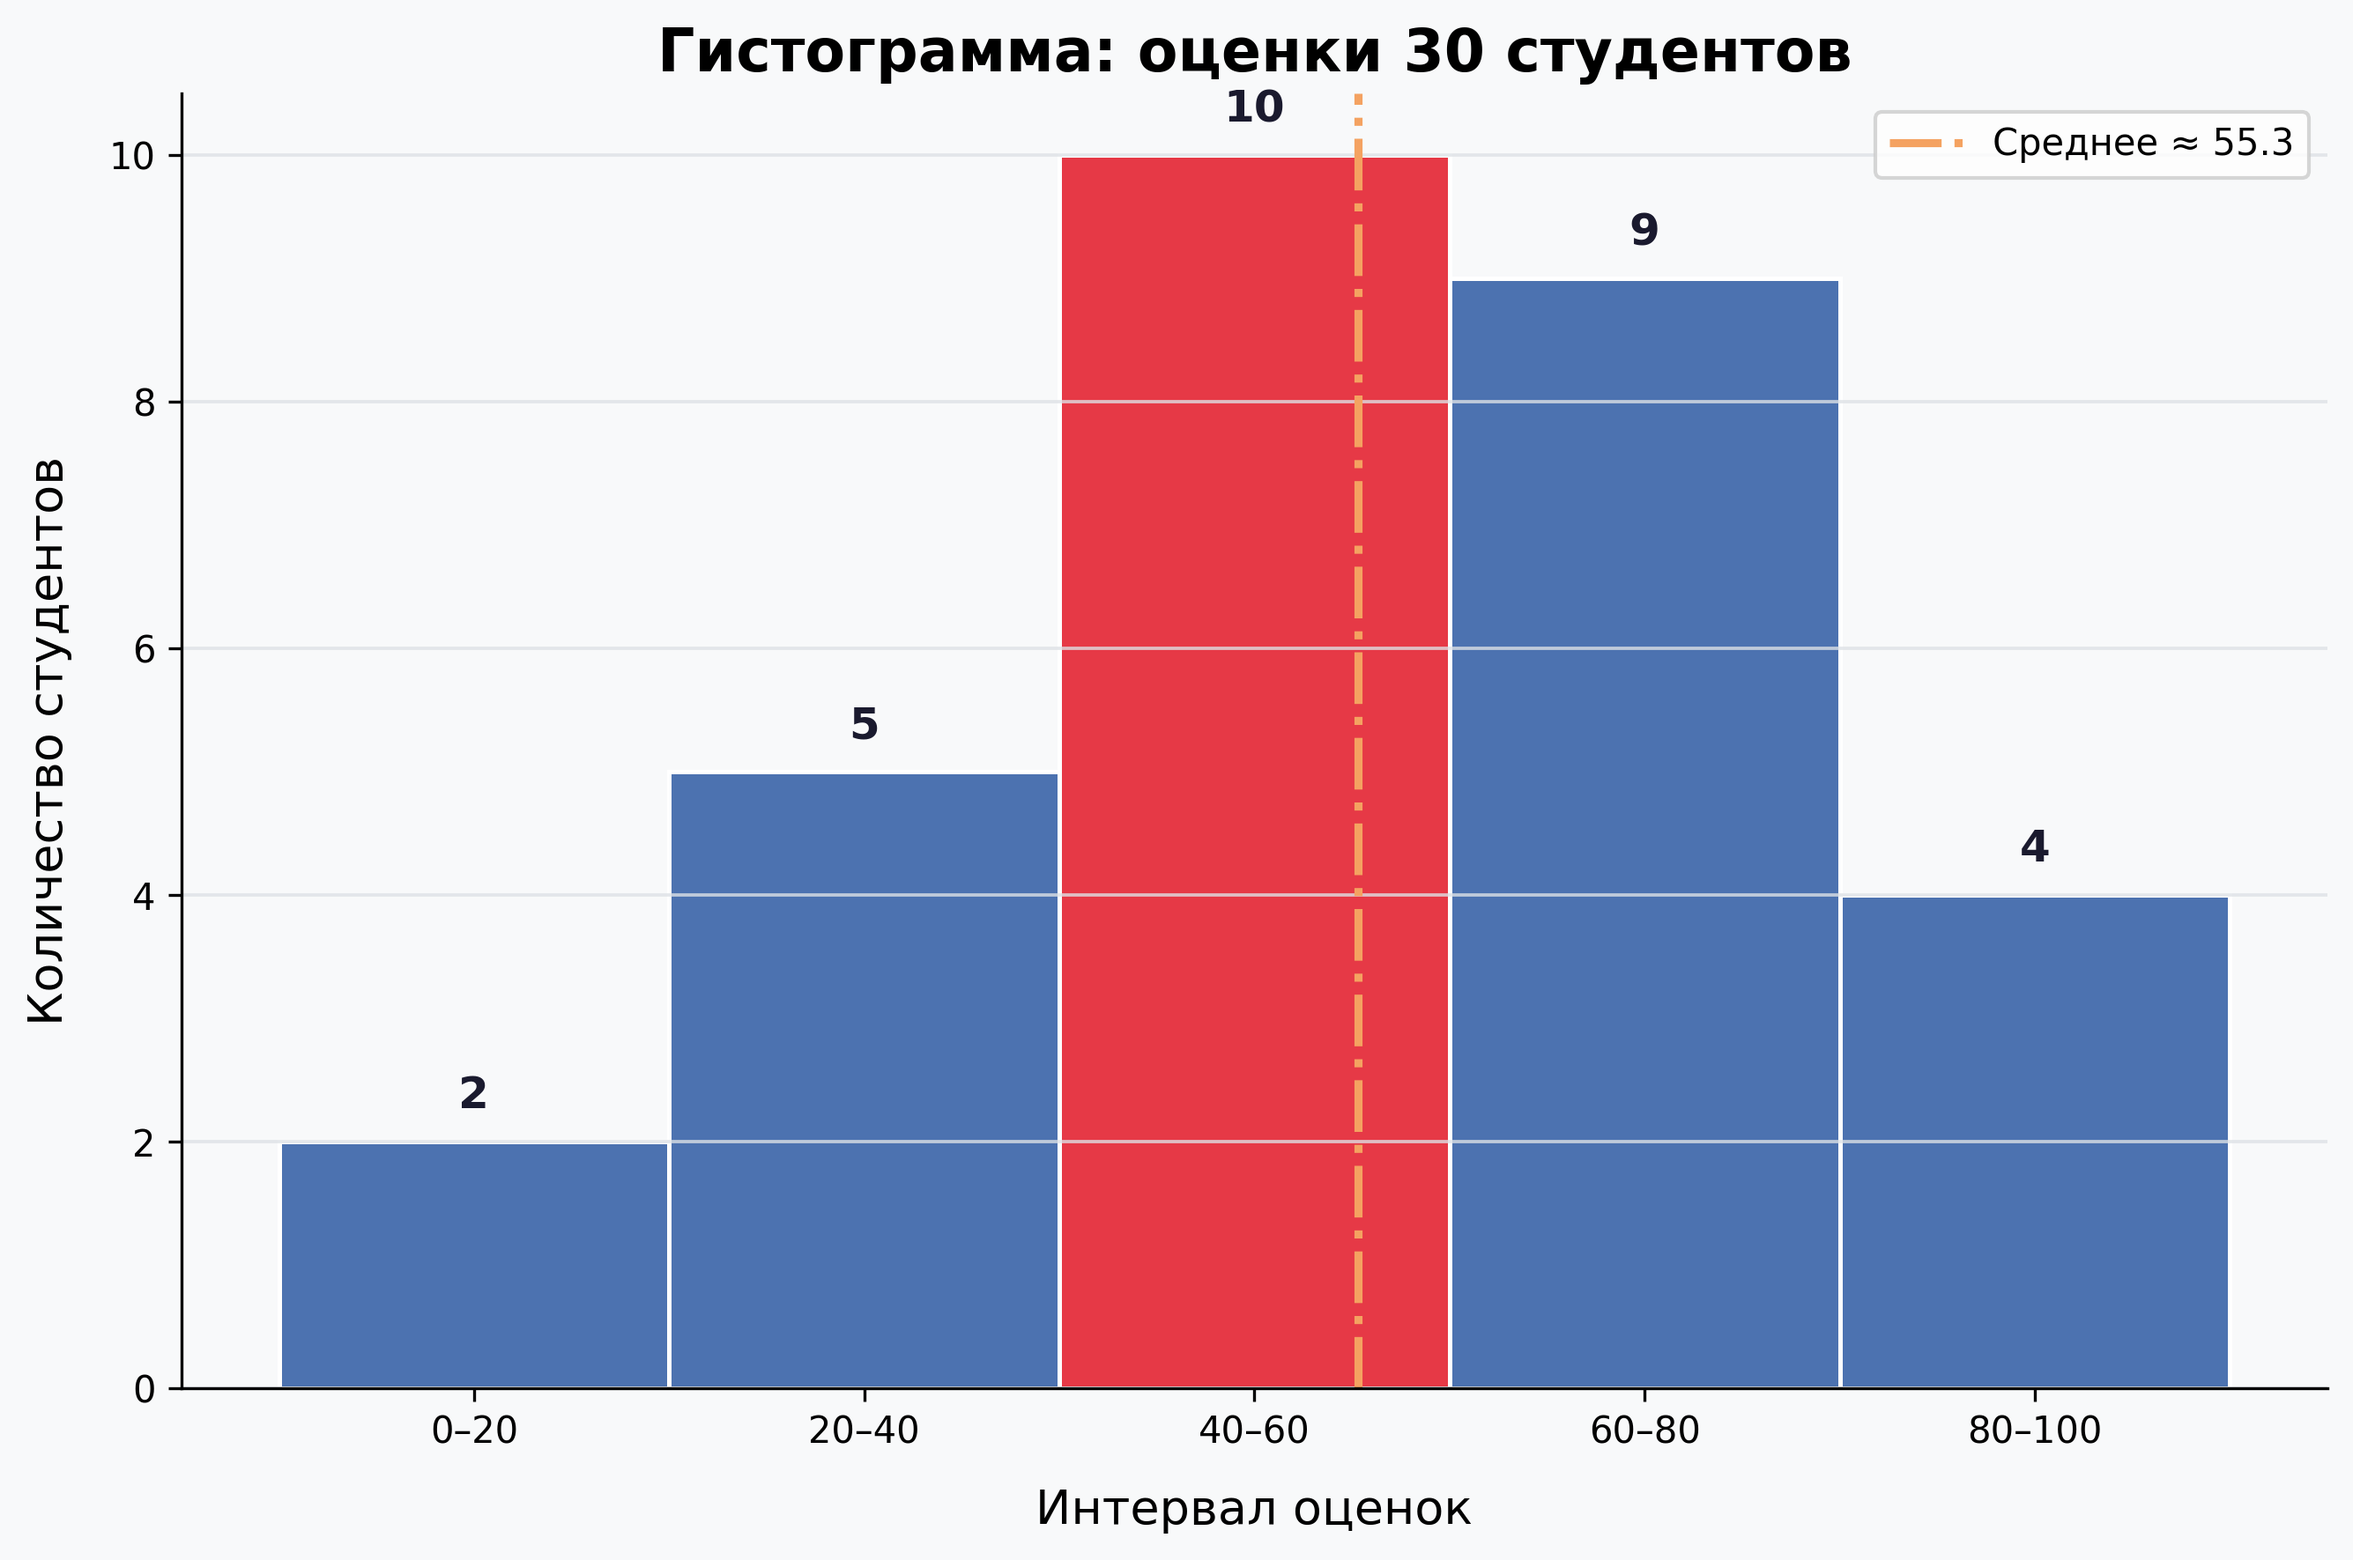
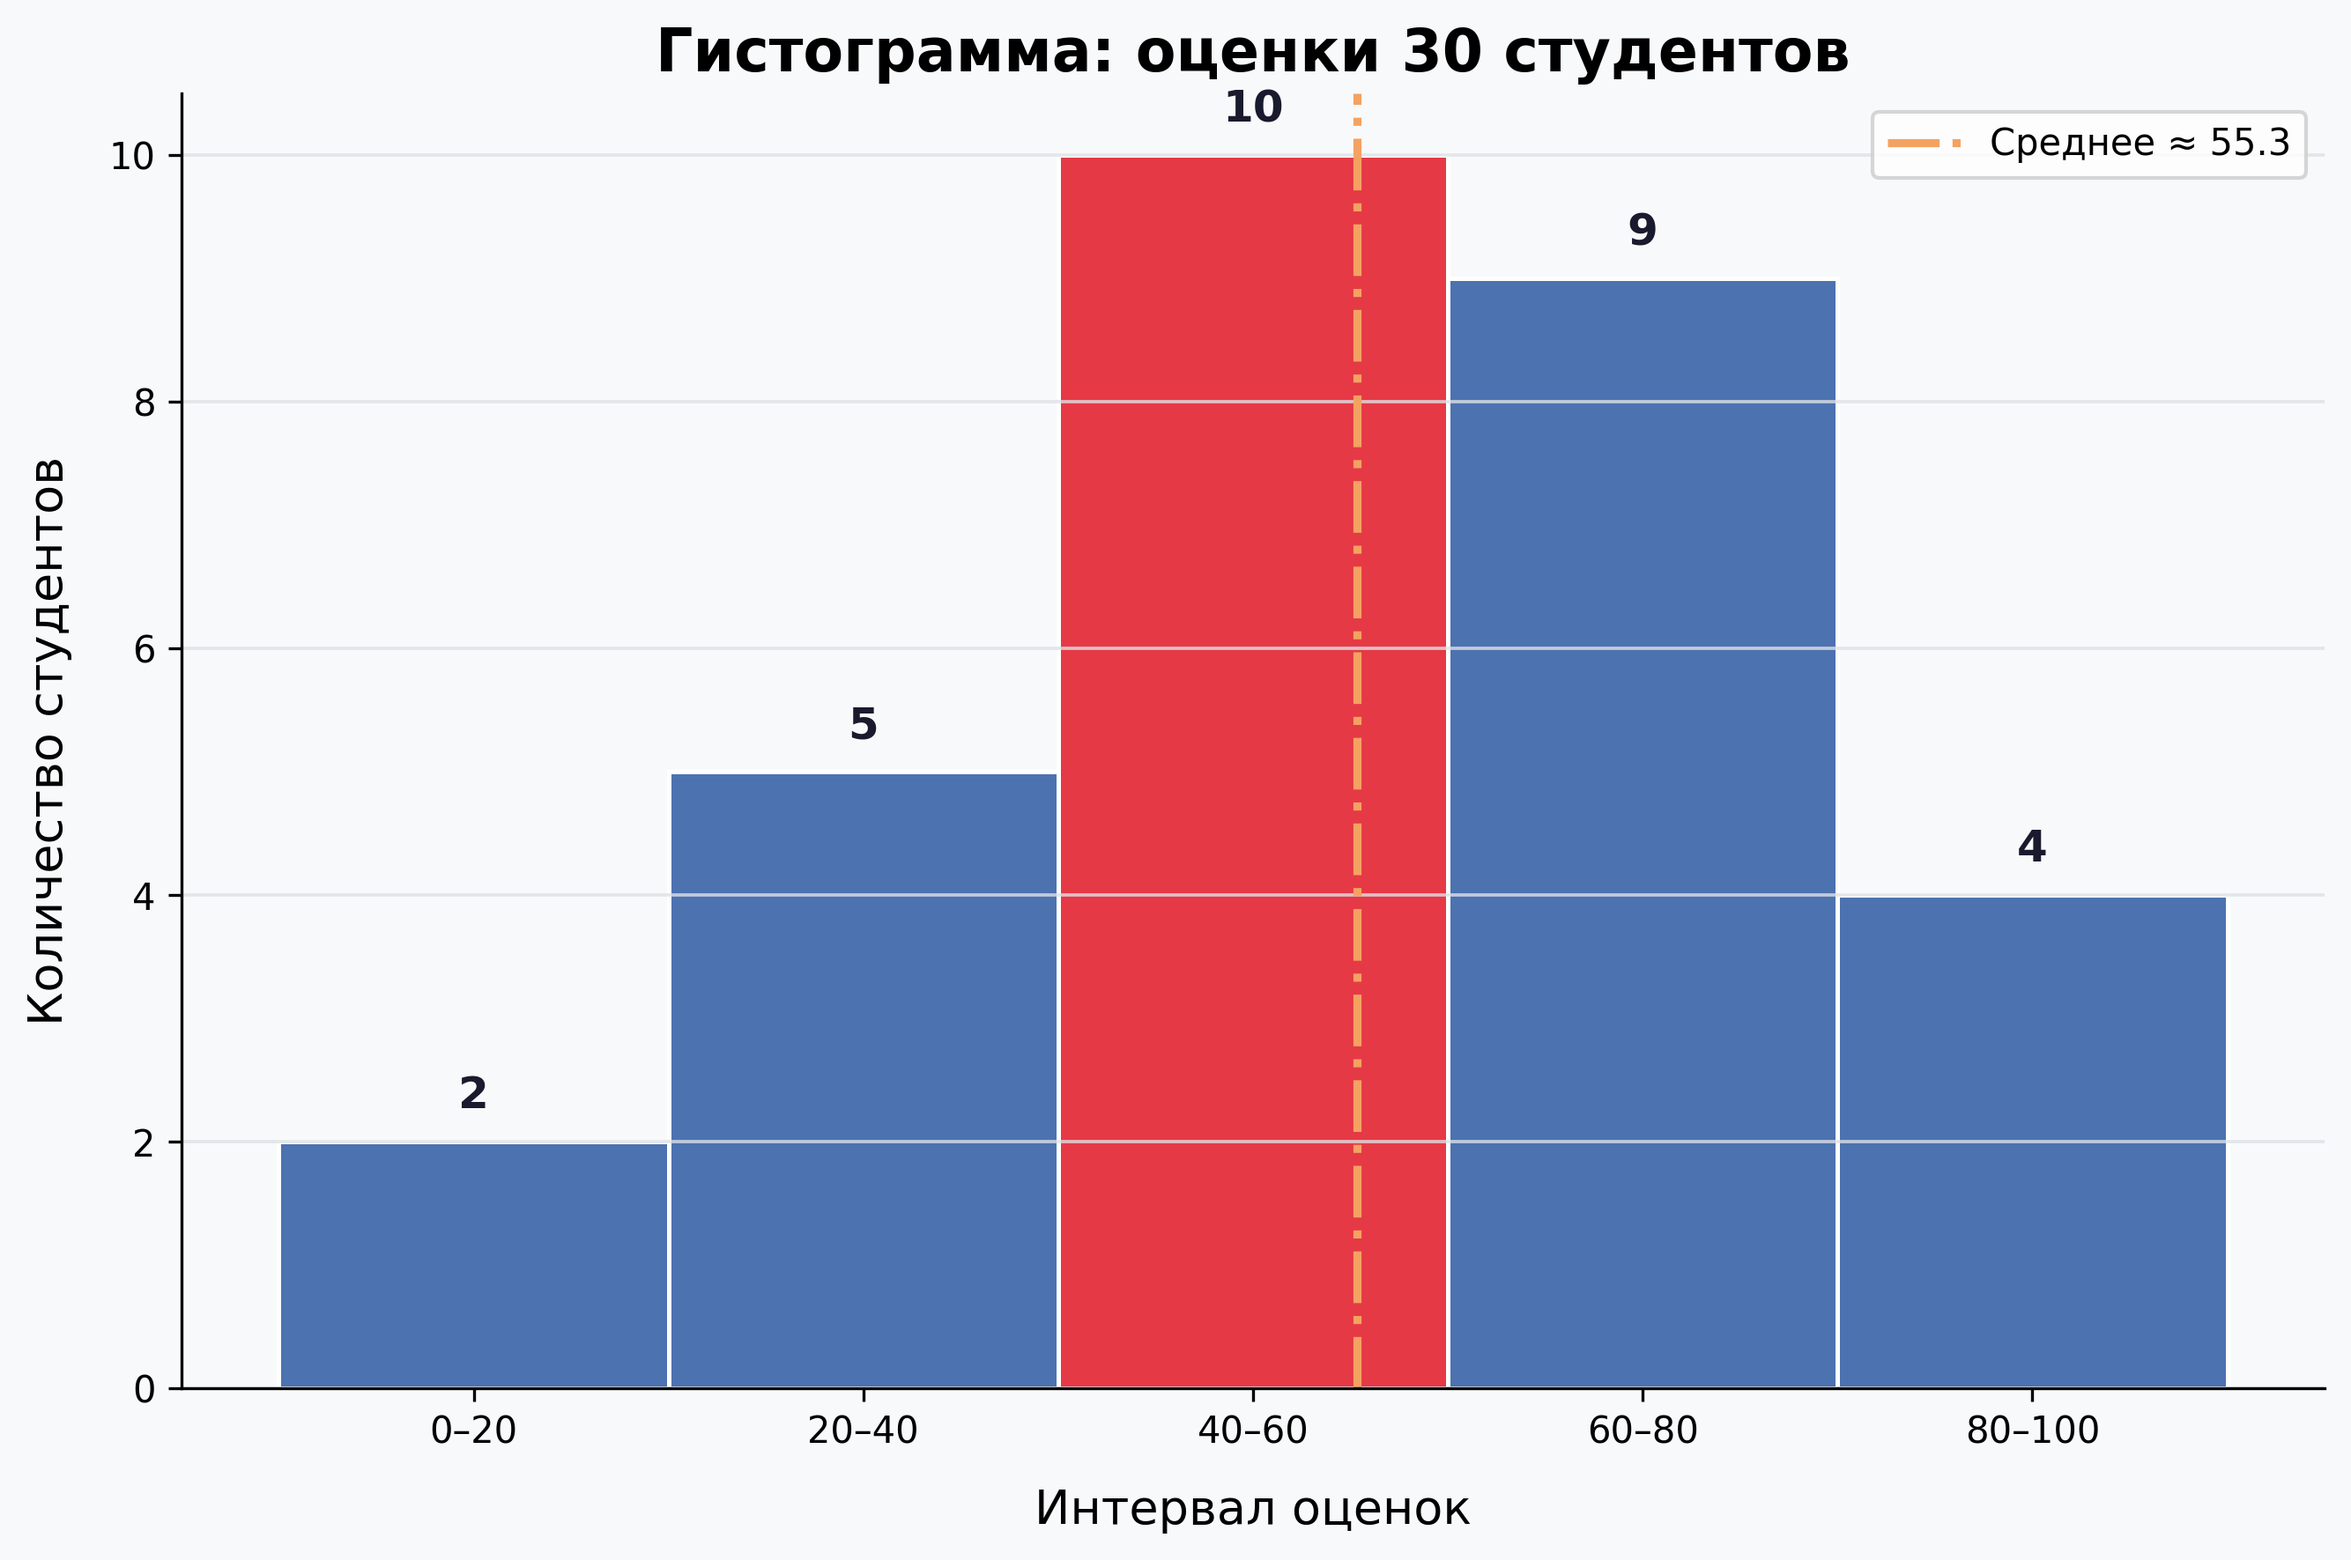
stepik

Changed region(s): [[0.3733, 0.0311, 0.4355, 0.0621], [0.6844, 0.9006, 0.7155, 0.9317]]

diff --git a/projects_7/task_7.py b/projects_7/task_7.py
@@ -1,43 +1,147 @@
-import pandas as pd
+import matplotlib.pyplot as plt
 
 import numpy as np
 
- 
-
-# Два класса с одинаковым средним, но разным разбросом
-
-class_A = pd.Series([74, 75, 75, 76, 74, 75, 76, 75])   # «стабильный» класс
-
-class_B = pd.Series([40, 55, 65, 80, 90, 95, 82, 93])   # «вариативный» класс
-
- 
-
-print('=== Класс A ===')
-
-print(f'  Оценки:   {class_A.tolist()}')
-
-print(f'  Среднее:  {class_A.mean():.1f}')
-print(f'Медиана:    {class_A.mean():.2f}')
-print(f'Дисперсия:  {class_A.var():.2f}')
-print(f'    СКО:    {class_A.std():.2f}')
-print(f'  Мин:      {class_A.min()}  |  Макс: {class_A.max()}')
-
- 
-
-print()
-
-print('=== Класс B ===')
-
-print(f'  Оценки:   {class_B.tolist()}')
-
-print(f'Среднее:    {class_B.mean():.1f}')
-
-print(f'Медиана:    {class_B.mean():.2f}')
-print(f'Дисперсия:  {class_B.var():.2f}')
-print(f'    СКО:    {class_B.std():.2f}')
-print(f'  Мин:      {class_B.min()}  |  Макс: {class_B.max()}')
 
 
-print()
+# ── Восстанавливаем "сырые данные" из частот ────────────────────────────────
 
-print('Вывод: среднее одинаково — но классы очень разные!')
+data = (
+
+   [10]*2 +
+
+   [30]*5 +
+
+   [50]*10 +
+
+   [70]*9 +
+
+   [90]*4
+
+)
+
+
+
+# ── Границы интервалов (как в исходной задаче) ──────────────────────────────
+
+bins = [0, 20, 40, 60, 80, 100]
+
+
+
+# ── Стиль ────────────────────────────────────────────────────────────────────
+
+fig, ax = plt.subplots(figsize=(9, 6), facecolor="#F8F9FA")
+
+ax.set_facecolor("#F8F9FA")
+
+
+
+# ── Гистограмма ──────────────────────────────────────────────────────────────
+
+n, bin_edges, patches = ax.hist(
+
+   data,
+
+   bins=bins,
+
+   edgecolor="white",
+
+   linewidth=1.2
+
+)
+
+
+
+# ── Подсветка самого высокого столбца ────────────────────────────────────────
+
+max_height = max(n)
+
+
+
+for count, patch in zip(n, patches):
+
+   if count == max_height:
+
+       patch.set_facecolor("#E63946")  # пик (мода)
+
+   else:
+
+       patch.set_facecolor("#4C72B0")
+
+
+
+# ── Подписи над столбцами ────────────────────────────────────────────────────
+
+for count, patch in zip(n, patches):
+
+   ax.text(
+
+       patch.get_x() + patch.get_width() / 2,
+
+       patch.get_height() + 0.2,
+
+       int(count),
+
+       ha="center", va="bottom",
+
+       fontsize=12, fontweight="bold",
+
+       color="#1A1A2E"
+
+   )
+
+
+
+# ── Среднее значение ─────────────────────────────────────────────────────────
+
+mean_val = np.mean(data)
+
+
+
+ax.axvline(mean_val,
+
+          color="#F4A261",
+
+          lw=2.2,
+
+          linestyle="-.",
+
+          label=f"Среднее ≈ {mean_val:.1f}")
+
+
+
+# ── Оформление ───────────────────────────────────────────────────────────────
+
+ax.set_xlabel("Интервал оценок", fontsize=13, labelpad=10)
+
+ax.set_ylabel("Количество студентов", fontsize=13, labelpad=10)
+
+ax.set_title("Гистограмма: оценки 30 студентов", fontsize=16, fontweight="bold")
+
+
+
+ax.set_xticks([10, 30, 50, 70, 90])
+
+ax.set_xticklabels(["0–20", "20–40", "40–60", "60–80", "80–100"])
+
+
+
+ax.grid(axis="y", color="#DEE2E6", linewidth=0.9, alpha=0.8)
+
+ax.spines[["top", "right"]].set_visible(False)
+
+
+
+ax.legend()
+
+
+
+plt.tight_layout()
+
+plt.savefig("students_histogram.png", dpi=300, bbox_inches="tight", facecolor="#F8F9FA")
+
+plt.show()
+
+
+
+print("Готово: students_histogram.png")

diff --git a/stepik.py b/stepik.py
@@ -1,0 +1,23 @@
+import sys
+
+# Считываем число N
+input_data = sys.stdin.read().split()
+
+
+n = int(input_data[0])
+
+# Находим позицию внутри повторяющегося цикла длины 8
+remainder = n % 8
+
+# Если остаток 0, это эквивалентно 8-му шагу цикла
+if remainder == 0:
+    remainder = 8
+    
+# Определяем номер пальца по его позиции в цикле
+if remainder <= 5:
+    # Идем вперед: 1->1, 2->2, 3->3, 4->4, 5->5
+    print(remainder)
+else:
+    # Идем назад: 6->4 (безымянный), 7->3 (средний), 8->2 (указательный)
+    print(10 - remainder)
+
